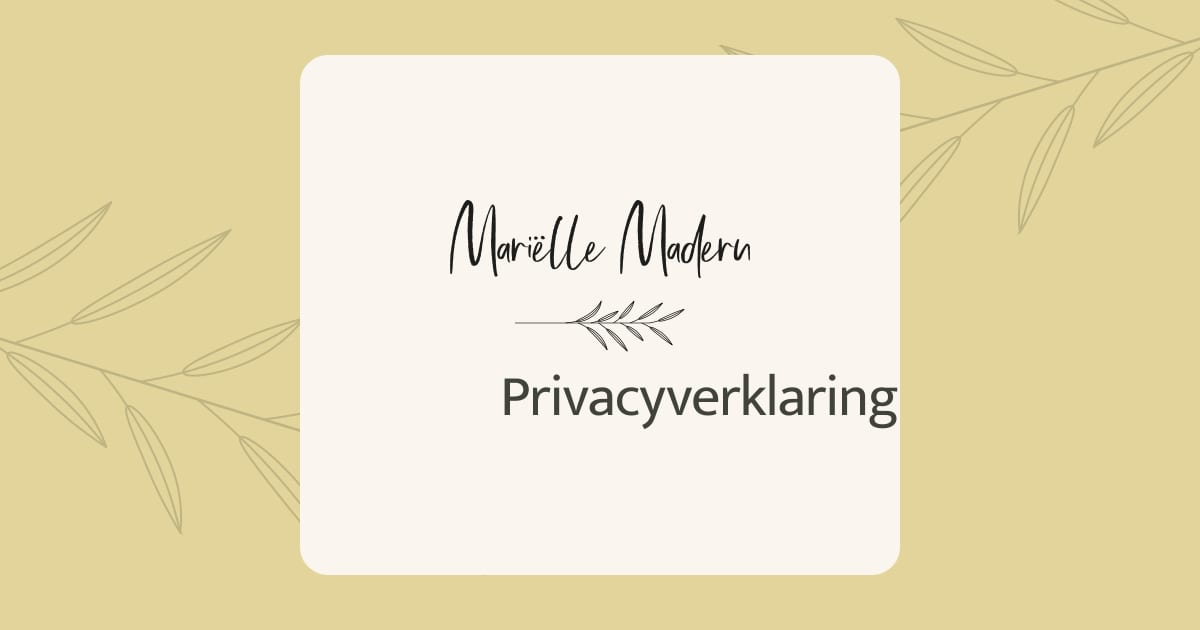
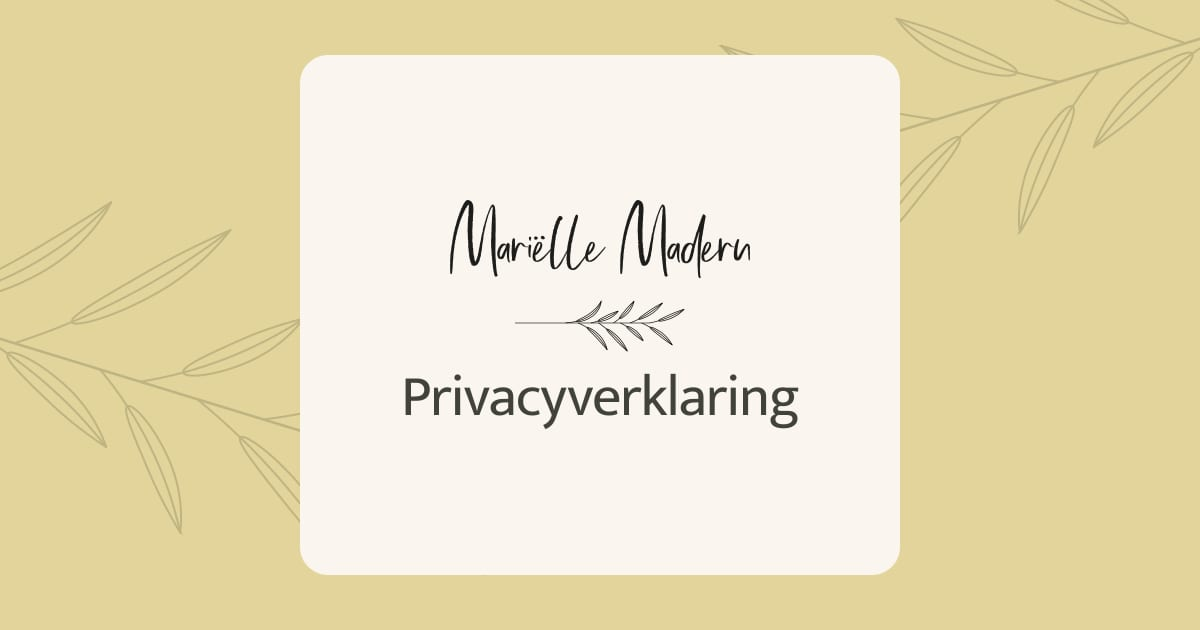
Centre single word titles on the share images, measure titles, new alt for Bestel de EP
Titles of one word were set 41 to 95 px too far to the right with balanced wrapping. The
title is now set with plain wrapping and only balanced when it needs two lines. pnpm og
measures every title (lines, width, distance from the centre of the column) and refuses a
title that is wider than the column of 512 px (the square crop runs from x 344 to 856),
on more than two lines or more than 2 px off centre; the build check verifies the measured
values in the manifest. Only privacy.jpg and spiegel.jpg changed. The alt of Bestel de EP
becomes "Bestel de EP: U ziet mij van Mariëlle Madern, met de hoes van de EP". The comment
in useDeelafbeelding.ts is up to date.

Changed region(s): [[0.3392, 0.573, 0.7708, 0.6937]]

diff --git a/app/composables/useDeelafbeelding.ts b/app/composables/useDeelafbeelding.ts
@@ -1,6 +1,6 @@
-// Deelafbeelding van een pagina (og:image en twitter:image). De bestanden maakt scripts/deelafbeeldingen.mjs:
-// 'algemeen' (logo), 'ep' (hoes van de EP) of de bestandsnaam van een nummer. Het adres wordt vanzelf
-// absoluut (https://mariellemadern.nl/...) door site.url.
+// Deelafbeelding van een pagina (og:image en twitter:image). De afbeeldingen staan in public/afbeeldingen/og en
+// worden gemaakt door pnpm og (scripts/og): 'home', de naam van een pagina in content/paginas (over-mij, contact, bestel-de-ep)
+// of de naam van een nummer. Het adres wordt vanzelf absoluut (https://mariellemadern.nl/...) door site.url.
 import toegestaan from '../../scripts/deelafbeeldingen-toegestaan.json'
 
 export function useDeelafbeelding(naam: string, alt: string) {
@@ -37,7 +37,7 @@ export function usePaginaDeelafbeelding(pad: string, titel: string) {
   useDeelafbeelding(
     naam,
     metEpHoes
-      ? `${titel} U ziet mij van Mariëlle Madern, met de hoes`
+      ? `${titel}: U ziet mij van Mariëlle Madern, met de hoes van de EP`
       : `Mariëlle Madern: ${titel}`,
   )
 }
